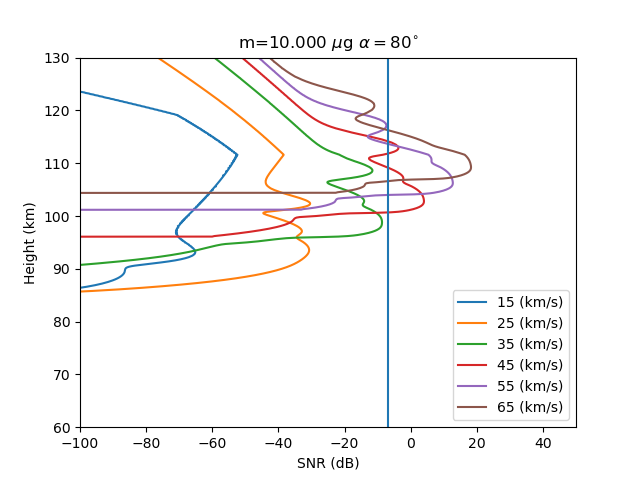
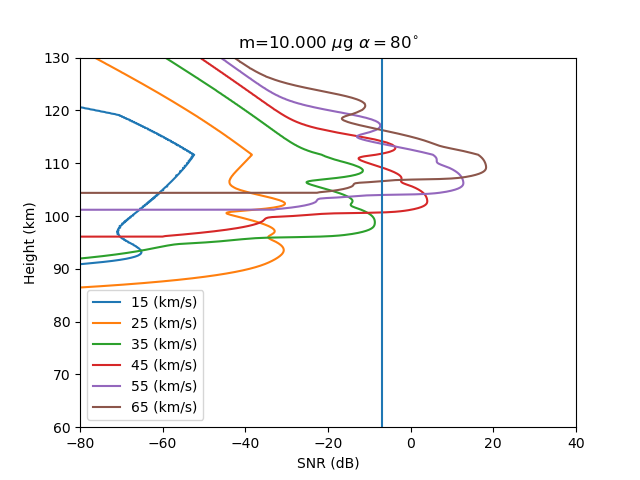
ggg

diff --git a/snrplot.py b/snrplot.py
@@ -71,7 +71,7 @@ def plot_sweep(mass=".01",angle="40"):
     plt.legend()
     plt.axvline(-7)
     plt.title(r"m=%1.3f $\mu$g $\alpha=%d^{\circ}$"%(float(mass),int(angle) ))
-    plt.xlim([-100,50])
+    plt.xlim([-80,40])
     plt.ylim([60,130])    
     plt.xlabel("SNR (dB)")
     plt.ylabel("Height (km)")
